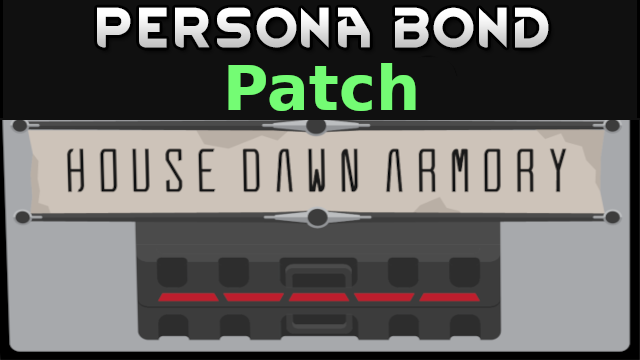
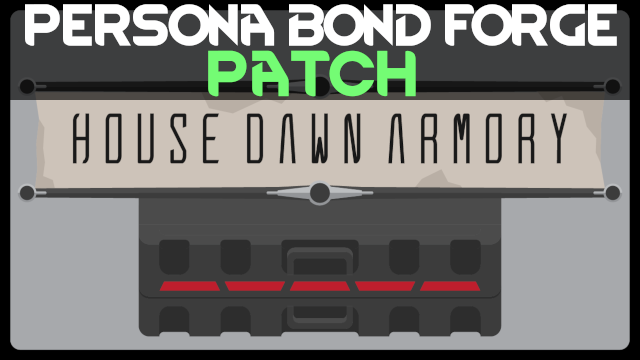
Update Preview.png and README.md

diff --git a/README.md b/README.md
@@ -2,6 +2,14 @@
 
 ![](https://github.com/Daria40K/Persona-Bond-Patch-for-House-Dawn-Armory/blob/main/About/Preview.png)
 
+## Required Mods
+- [Persona Bond Forge](https://steamcommunity.com/workshop/filedetails/?id=2178003816) (Steam)
+- [House Dawn Armory](https://steamcommunity.com/sharedfiles/filedetails/?id=2717638504) (Steam)
+
+## Download
+- [Steam](https://steamcommunity.com/sharedfiles/filedetails/?id=2757653194)
+- [GitHub](https://github.com/Daria40K/Persona-Bond-Patch-for-House-Dawn-Armory/releases)
+
 ## Weapons Patched
 - LS-04 Mantis
 - HSG-02 Mammoth
